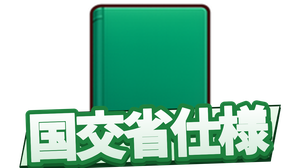
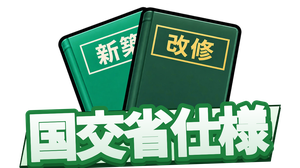
国交省仕様の絵を新しい絵に差し替え（メインアイコン・見出しの横）
Claude-Session: https://claude.ai/code/session_01SSqBungNj4wBMJYD7VEwk6

Changed region(s): [[0.18, 0.0, 0.81, 0.6845]]

diff --git a/kokkosho.html b/kokkosho.html
@@ -1005,7 +1005,7 @@ nav, nav#nav{overflow:visible; padding-top:2px;}
 
 <header id="nnHdr">
   <button class="new-btn nn-back nn-backimg" onclick="nnBack()" title="ひとつ前に戻る"><img src="./icons/btn_back.png?v=2026-09-07e" alt="戻る" onerror="var b=this.parentElement;b.classList.remove('nn-backimg');b.textContent='↩';"></button>
-  <span class="hicon"><img src="./icons/icon_kokkou.png" alt="" style="height:28px;vertical-align:middle" onerror="this.parentElement.textContent=NAV_ICONS.header"></span>
+  <span class="hicon"><img src="./icons/icon_kokkou.png?v=2026-10-26x" alt="" style="height:28px;vertical-align:middle" onerror="this.parentElement.textContent=NAV_ICONS.header"></span>
   <h1><span class="nnTtl">国交省仕様</span></h1>
   <span class="ver-badge">令和7年版 準拠</span>
   <span class="hco"><small>公共建築工事標準仕様書に準拠した防水仕様</small></span>
@@ -1907,7 +1907,7 @@ function buildNav(){
   n.innerHTML=NAV.map(([k,l])=>{
     const suf=(k===NAV_ACTIVE)?'_on':'';
     return `<div class="ni ${k===NAV_ACTIVE?'on':''}" onclick="navGo('${k}','${l}')">
-      <span class="ic"><img src="./icons/nav_${k}${suf}.png?v=2026-10-26t" alt="${l}"
+      <span class="ic"><img src="./icons/nav_${k}${suf}.png?v=2026-10-26x" alt="${l}"
         onload="this.closest('.ni').classList.add('hasimg')"
         onerror="if(!this.dataset.f){this.dataset.f=1;this.src='./icons/nav_${k}.png';}
                  else{this.outerHTML=NAV_ICONS['${k}']||'▫';}"></span><span>${l}</span></div>`;
@@ -2491,7 +2491,7 @@ nav, nav#nav{justify-content:center !important; padding-left:6px !important; pad
    古いものが出続けることがある。そこで ver.txt（数バイト）だけを
    毎回見に行き、公開版と違っていたら保存分を捨てて1回だけ読み直す。
    ★公開のたびに ver.txt と、下の NN_VER を同じ文字に更新すること。 */
-const NN_VER='2026-10-26w';
+const NN_VER='2026-10-26x';
 /* ============ 表示にかかった時間の記録（原因調査用・2026-07-28） ============
    スマホの実機でどこに時間がかかっているかを数字で出す。
    ・net  ＝ページを要求してから最初の返事が来るまで（通信の待ち）

diff --git a/index.html b/index.html
@@ -422,7 +422,7 @@ nav, nav#nav{overflow:visible; padding-top:2px;}
 
 <!-- 版の表示：スマホに届いている中身がどれかを、お互いに確認するための小さな印。
      不要になったらこの1行と #nnver の指定を消してください。 -->
-<div id="nnver">v2026-10-26 w</div>
+<div id="nnver">v2026-10-26 x</div>
 <script>
 /* ============ 実機の計測結果を表示（原因調査用・2026-07-28） ============
    数字の意味（単位はミリ秒）
@@ -522,7 +522,7 @@ function buildNav(){
   n.innerHTML=NAV.map(([k,l])=>{
     const suf=(k===NAV_ACTIVE)?'_on':'';
     return `<div class="ni ${k===NAV_ACTIVE?'on':''}" onclick="navGo('${k}','${l}')">
-      <span class="ic"><img src="./icons/nav_${k}${suf}.png?v=2026-10-26t" alt="${l}"
+      <span class="ic"><img src="./icons/nav_${k}${suf}.png?v=2026-10-26x" alt="${l}"
         onload="this.closest('.ni').classList.add('hasimg')"
         onerror="if(!this.dataset.f){this.dataset.f=1;this.src='./icons/nav_${k}.png';}
                  else{this.outerHTML=ICONS['${k}']||'▫';}"></span><span>${l}</span></div>`;
@@ -775,7 +775,7 @@ nav, nav#nav{justify-content:center !important; padding-left:6px !important; pad
    古いものが出続けることがある。そこで ver.txt（数バイト）だけを
    毎回見に行き、公開版と違っていたら保存分を捨てて1回だけ読み直す。
    ★公開のたびに ver.txt と、下の NN_VER を同じ文字に更新すること。 */
-const NN_VER='2026-10-26w';
+const NN_VER='2026-10-26x';
 /* ============ 表示にかかった時間の記録（原因調査用・2026-07-28） ============
    スマホの実機でどこに時間がかかっているかを数字で出す。
    ・net  ＝ページを要求してから最初の返事が来るまで（通信の待ち）

diff --git a/genba_map_v36.html b/genba_map_v36.html
@@ -4859,7 +4859,7 @@ function buildNav(){
   n.innerHTML=NAV.map(([k,l])=>{
     const suf=(k===NAV_ACTIVE)?'_on':'';
     return `<div class="ni ${k===NAV_ACTIVE?'on':''}" onclick="navGo('${k}','${l}')">
-      <span class="ic"><img src="./icons/nav_${k}${suf}.png?v=2026-10-26t" alt="${l}"
+      <span class="ic"><img src="./icons/nav_${k}${suf}.png?v=2026-10-26x" alt="${l}"
         onload="this.closest('.ni').classList.add('hasimg')"
         onerror="if(!this.dataset.f){this.dataset.f=1;this.src='./icons/nav_${k}.png';}
                  else{this.outerHTML=ICONS['${k}']||'▫';}"></span><span>${l}</span></div>`;
@@ -5048,7 +5048,7 @@ nav, nav#nav{justify-content:center !important; padding-left:6px !important; pad
    古いものが出続けることがある。そこで ver.txt（数バイト）だけを
    毎回見に行き、公開版と違っていたら保存分を捨てて1回だけ読み直す。
    ★公開のたびに ver.txt と、下の NN_VER を同じ文字に更新すること。 */
-const NN_VER='2026-10-26w';
+const NN_VER='2026-10-26x';
 /* ============ 表示にかかった時間の記録（原因調査用・2026-07-28） ============
    スマホの実機でどこに時間がかかっているかを数字で出す。
    ・net  ＝ページを要求してから最初の返事が来るまで（通信の待ち）

diff --git a/kirokucho_demo.html b/kirokucho_demo.html
@@ -3270,7 +3270,7 @@ function buildNav(){
   n.innerHTML=NAV.map(([k,l])=>{
     const suf=(k===NAV_ACTIVE)?'_on':'';
     return `<div class="ni ${k===NAV_ACTIVE?'on':''}" onclick="navGo('${k}','${l}')">
-      <span class="ic"><img src="./icons/nav_${k}${suf}.png?v=2026-10-26t" alt="${l}"
+      <span class="ic"><img src="./icons/nav_${k}${suf}.png?v=2026-10-26x" alt="${l}"
         onload="this.closest('.ni').classList.add('hasimg')"
         onerror="if(!this.dataset.f){this.dataset.f=1;this.src='./icons/nav_${k}.png';}
                  else{this.outerHTML=ICONS['${k}']||'▫';}"></span><span>${l}</span></div>`;
@@ -4928,7 +4928,7 @@ nav, nav#nav{justify-content:center !important; padding-left:6px !important; pad
    古いものが出続けることがある。そこで ver.txt（数バイト）だけを
    毎回見に行き、公開版と違っていたら保存分を捨てて1回だけ読み直す。
    ★公開のたびに ver.txt と、下の NN_VER を同じ文字に更新すること。 */
-const NN_VER='2026-10-26w';
+const NN_VER='2026-10-26x';
 /* ============ 表示にかかった時間の記録（原因調査用・2026-07-28） ============
    スマホの実機でどこに時間がかかっているかを数字で出す。
    ・net  ＝ページを要求してから最初の返事が来るまで（通信の待ち）

diff --git a/shiyo_toroku.html b/shiyo_toroku.html
@@ -1388,7 +1388,7 @@ function buildNav(){
   n.innerHTML=NAV.map(([k,l])=>{
     const suf=(k===NAV_ACTIVE)?'_on':'';
     return `<div class="ni ${k===NAV_ACTIVE?'on':''}" onclick="navGo('${k}','${l}')">
-      <span class="ic"><img src="./icons/nav_${k}${suf}.png?v=2026-10-26t" alt="${l}"
+      <span class="ic"><img src="./icons/nav_${k}${suf}.png?v=2026-10-26x" alt="${l}"
         onload="this.closest('.ni').classList.add('hasimg')"
         onerror="if(!this.dataset.f){this.dataset.f=1;this.src='./icons/nav_${k}.png';}
                  else{this.outerHTML=ICONS['${k}']||'▫';}"></span><span>${l}</span></div>`;
@@ -1821,7 +1821,7 @@ nav, nav#nav{justify-content:center !important; padding-left:6px !important; pad
    古いものが出続けることがある。そこで ver.txt（数バイト）だけを
    毎回見に行き、公開版と違っていたら保存分を捨てて1回だけ読み直す。
    ★公開のたびに ver.txt と、下の NN_VER を同じ文字に更新すること。 */
-const NN_VER='2026-10-26w';
+const NN_VER='2026-10-26x';
 /* ============ 表示にかかった時間の記録（原因調査用・2026-07-28） ============
    スマホの実機でどこに時間がかかっているかを数字で出す。
    ・net  ＝ページを要求してから最初の返事が来るまで（通信の待ち）

diff --git a/zairyo_toroku.html b/zairyo_toroku.html
@@ -1208,7 +1208,7 @@ function buildNav(){
   n.innerHTML=NAV.map(([k,l])=>{
     const suf=(k===NAV_ACTIVE)?'_on':'';
     return `<div class="ni ${k===NAV_ACTIVE?'on':''}" onclick="navGo('${k}','${l}')">
-      <span class="ic"><img src="./icons/nav_${k}${suf}.png?v=2026-10-26t" alt="${l}"
+      <span class="ic"><img src="./icons/nav_${k}${suf}.png?v=2026-10-26x" alt="${l}"
         onload="this.closest('.ni').classList.add('hasimg')"
         onerror="if(!this.dataset.f){this.dataset.f=1;this.src='./icons/nav_${k}.png';}
                  else{this.outerHTML=ICONS['${k}']||'▫';}"></span><span>${l}</span></div>`;
@@ -1613,7 +1613,7 @@ nav, nav#nav{justify-content:center !important; padding-left:6px !important; pad
    古いものが出続けることがある。そこで ver.txt（数バイト）だけを
    毎回見に行き、公開版と違っていたら保存分を捨てて1回だけ読み直す。
    ★公開のたびに ver.txt と、下の NN_VER を同じ文字に更新すること。 */
-const NN_VER='2026-10-26w';
+const NN_VER='2026-10-26x';
 /* ============ 表示にかかった時間の記録（原因調査用・2026-07-28） ============
    スマホの実機でどこに時間がかかっているかを数字で出す。
    ・net  ＝ページを要求してから最初の返事が来るまで（通信の待ち）

diff --git a/zumen_sekisan.html b/zumen_sekisan.html
@@ -5883,7 +5883,7 @@ function buildNav(){
   n.innerHTML=NAV.map(([k,l])=>{
     const suf=(k===NAV_ACTIVE)?'_on':'';
     return `<div class="ni ${k===NAV_ACTIVE?'on':''}" onclick="navGo('${k}','${l}')">
-      <span class="ic"><img src="./icons/nav_${k}${suf}.png?v=2026-10-26t" alt="${l}"
+      <span class="ic"><img src="./icons/nav_${k}${suf}.png?v=2026-10-26x" alt="${l}"
         onload="this.closest('.ni').classList.add('hasimg')"
         onerror="if(!this.dataset.f){this.dataset.f=1;this.src='./icons/nav_${k}.png';}
                  else{this.outerHTML=ICONS['${k}']||'▫';}"></span><span>${l}</span></div>`;
@@ -6342,7 +6342,7 @@ nav, nav#nav{justify-content:center !important; padding-left:6px !important; pad
    古いものが出続けることがある。そこで ver.txt（数バイト）だけを
    毎回見に行き、公開版と違っていたら保存分を捨てて1回だけ読み直す。
    ★公開のたびに ver.txt と、下の NN_VER を同じ文字に更新すること。 */
-const NN_VER='2026-10-26w';
+const NN_VER='2026-10-26x';
 /* ============ 表示にかかった時間の記録（原因調査用・2026-07-28） ============
    スマホの実機でどこに時間がかかっているかを数字で出す。
    ・net  ＝ページを要求してから最初の返事が来るまで（通信の待ち）

diff --git a/camera.html b/camera.html
@@ -334,7 +334,7 @@ function buildNav(){
   n.innerHTML=NAV.map(([k,l])=>{
     const suf=(k===NAV_ACTIVE)?'_on':'';
     return `<div class="ni ${k===NAV_ACTIVE?'on':''}" onclick="navGo('${k}','${l}')">
-      <span class="ic"><img src="./icons/nav_${k}${suf}.png?v=2026-10-26t" alt="${l}"
+      <span class="ic"><img src="./icons/nav_${k}${suf}.png?v=2026-10-26x" alt="${l}"
         onload="this.closest('.ni').classList.add('hasimg')"
         onerror="if(!this.dataset.f){this.dataset.f=1;this.src='./icons/nav_${k}.png';}
                  else{this.outerHTML=ICONS['${k}']||'▫';}"></span><span>${l}</span></div>`;
@@ -1296,7 +1296,7 @@ nav, nav#nav{justify-content:center !important; padding-left:6px !important; pad
    古いものが出続けることがある。そこで ver.txt（数バイト）だけを
    毎回見に行き、公開版と違っていたら保存分を捨てて1回だけ読み直す。
    ★公開のたびに ver.txt と、下の NN_VER を同じ文字に更新すること。 */
-const NN_VER='2026-10-26w';
+const NN_VER='2026-10-26x';
 /* ============ 表示にかかった時間の記録（原因調査用・2026-07-28） ============
    スマホの実機でどこに時間がかかっているかを数字で出す。
    ・net  ＝ページを要求してから最初の返事が来るまで（通信の待ち）

diff --git a/hacchu.html b/hacchu.html
@@ -378,7 +378,7 @@ function buildNav(){
   n.innerHTML=NAV.map(([k,l])=>{
     const suf=(k===NAV_ACTIVE)?'_on':'';
     return `<div class="ni ${k===NAV_ACTIVE?'on':''}" onclick="navGo('${k}','${l}')">
-      <span class="ic"><img src="./icons/nav_${k}${suf}.png?v=2026-10-26t" alt="${l}"
+      <span class="ic"><img src="./icons/nav_${k}${suf}.png?v=2026-10-26x" alt="${l}"
         onload="this.closest('.ni').classList.add('hasimg')"
         onerror="if(!this.dataset.f){this.dataset.f=1;this.src='./icons/nav_${k}.png';}
                  else{this.outerHTML=ICONS['${k}']||'▫';}"></span><span>${l}</span></div>`;
@@ -1126,7 +1126,7 @@ nav, nav#nav{justify-content:center !important; padding-left:6px !important; pad
    古いものが出続けることがある。そこで ver.txt（数バイト）だけを
    毎回見に行き、公開版と違っていたら保存分を捨てて1回だけ読み直す。
    ★公開のたびに ver.txt と、下の NN_VER を同じ文字に更新すること。 */
-const NN_VER='2026-10-26w';
+const NN_VER='2026-10-26x';
 /* ============ 表示にかかった時間の記録（原因調査用・2026-07-28） ============
    スマホの実機でどこに時間がかかっているかを数字で出す。
    ・net  ＝ページを要求してから最初の返事が来るまで（通信の待ち）

diff --git a/library.html b/library.html
@@ -417,7 +417,7 @@ function buildNav(){
   n.innerHTML=NAV.map(([k,l])=>{
     const suf=(k===NAV_ACTIVE)?'_on':'';
     return `<div class="ni ${k===NAV_ACTIVE?'on':''}" onclick="navGo('${k}','${l}')">
-      <span class="ic"><img src="./icons/nav_${k}${suf}.png?v=2026-10-26t" alt="${l}"
+      <span class="ic"><img src="./icons/nav_${k}${suf}.png?v=2026-10-26x" alt="${l}"
         onload="this.closest('.ni').classList.add('hasimg')"
         onerror="if(!this.dataset.f){this.dataset.f=1;this.src='./icons/nav_${k}.png';}
                  else{this.outerHTML=ICONS['${k}']||'▫';}"></span><span>${l}</span></div>`;
@@ -1193,7 +1193,7 @@ nav, nav#nav{justify-content:center !important; padding-left:6px !important; pad
    古いものが出続けることがある。そこで ver.txt（数バイト）だけを
    毎回見に行き、公開版と違っていたら保存分を捨てて1回だけ読み直す。
    ★公開のたびに ver.txt と、下の NN_VER を同じ文字に更新すること。 */
-const NN_VER='2026-10-26w';
+const NN_VER='2026-10-26x';
 /* ============ 表示にかかった時間の記録（原因調査用・2026-07-28） ============
    スマホの実機でどこに時間がかかっているかを数字で出す。
    ・net  ＝ページを要求してから最初の返事が来るまで（通信の待ち）

diff --git a/yougo.html b/yougo.html
@@ -317,7 +317,7 @@ function buildNav(){
   n.innerHTML=NAV.map(([k,l])=>{
     const suf=(k===NAV_ACTIVE)?'_on':'';
     return `<div class="ni ${k===NAV_ACTIVE?'on':''}" onclick="navGo('${k}','${l}')">
-      <span class="ic"><img src="./icons/nav_${k}${suf}.png?v=2026-10-26t" alt="${l}"
+      <span class="ic"><img src="./icons/nav_${k}${suf}.png?v=2026-10-26x" alt="${l}"
         onload="this.closest('.ni').classList.add('hasimg')"
         onerror="if(!this.dataset.f){this.dataset.f=1;this.src='./icons/nav_${k}.png';}
                  else{this.outerHTML=ICONS['${k}']||'▫';}"></span><span>${l}</span></div>`;
@@ -1429,7 +1429,7 @@ nav, nav#nav{justify-content:center !important; padding-left:6px !important; pad
    古いものが出続けることがある。そこで ver.txt（数バイト）だけを
    毎回見に行き、公開版と違っていたら保存分を捨てて1回だけ読み直す。
    ★公開のたびに ver.txt と、下の NN_VER を同じ文字に更新すること。 */
-const NN_VER='2026-10-26w';
+const NN_VER='2026-10-26x';
 /* ============ 表示にかかった時間の記録（原因調査用・2026-07-28） ============
    スマホの実機でどこに時間がかかっているかを数字で出す。
    ・net  ＝ページを要求してから最初の返事が来るまで（通信の待ち）

diff --git a/sw.js b/sw.js
@@ -11,7 +11,7 @@
      ので、こちらの修正が確実に端末へ届く。
      ★ページを直したら、必ずこの番号を1つ上げること。
    ============================================================ */
-const CACHE = 'nn-cache-v895';
+const CACHE = 'nn-cache-v896';
 
 const ASSETS = [
   './repair_takeoff.js',
